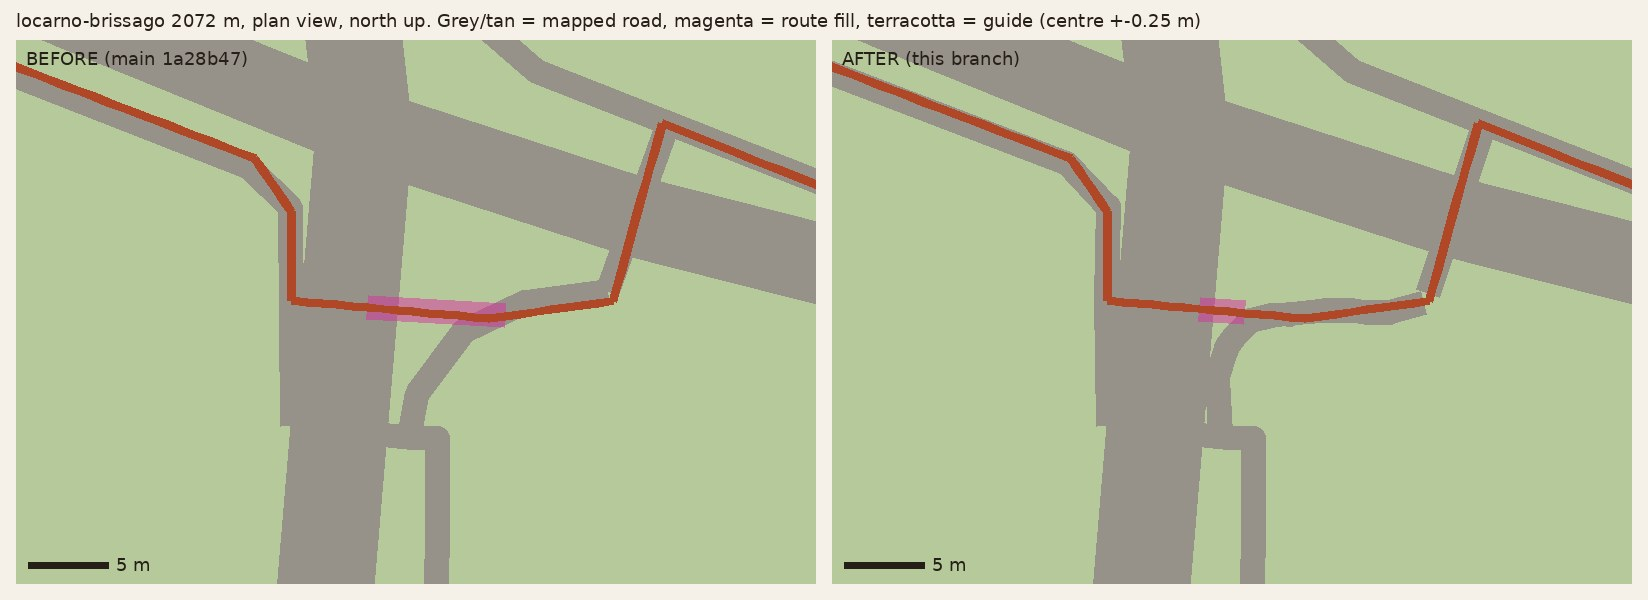
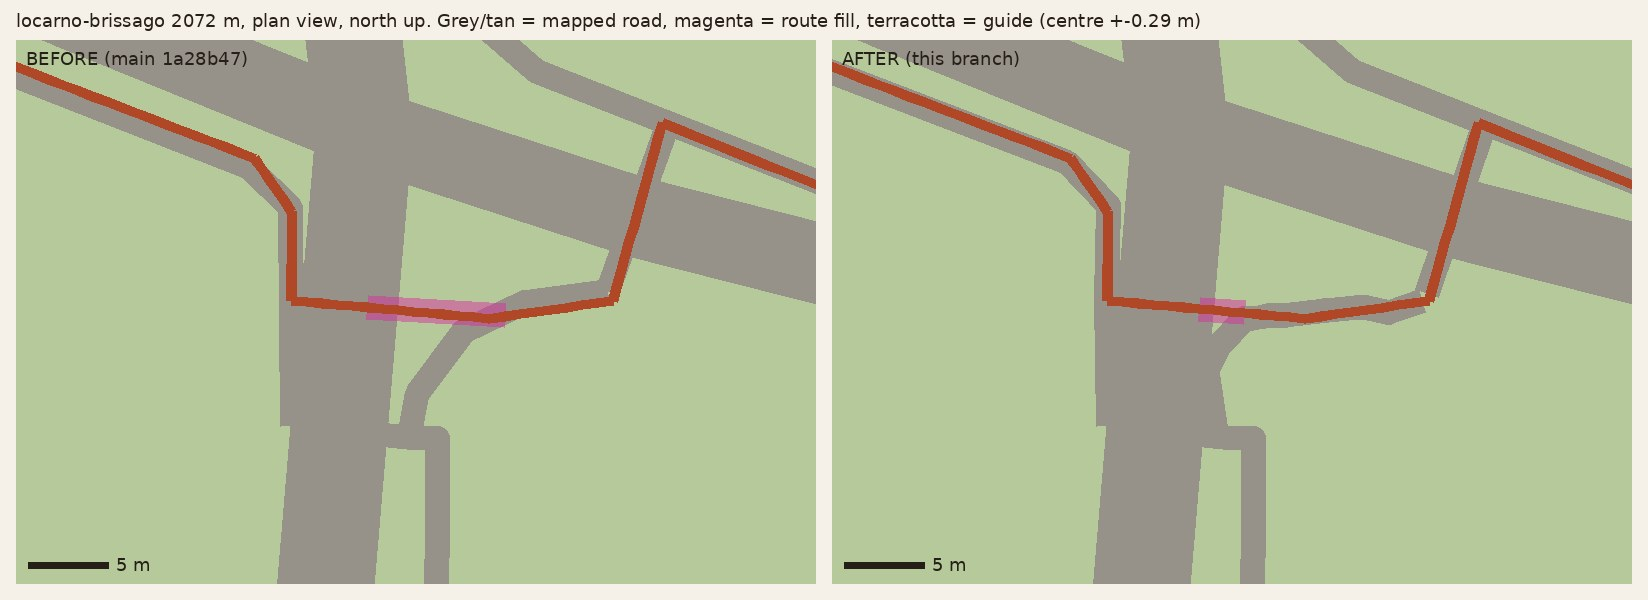
docs(evidence): route fit re-shot on the 0.29 m bake — chase (1440, 390, 1280@2), overhead, plan views, idle cat-bed fps

diff --git a/docs/design/screenshots/route-fit/README.md b/docs/design/screenshots/route-fit/README.md
@@ -1,26 +1,26 @@
 # Route fit: one drawn surface under the guide (PR #33 review N3)
 
-Card t_7e8cd233. The bake no longer lays a `routeFill` piece beside a path the route runs along. It bends that path onto the route instead (`easeRoadsOntoRoutes`, tools/worldbake/routeCoverage.mjs), and only adds a `routeFill` join where no road runs along the route within 2.5 m.
+Card t_7e8cd233. The bake no longer lays a `routeFill` piece beside a path the route runs along. It bends that path onto the route instead (`easeRoadsOntoRoutes`, tools/worldbake/routeCoverage.mjs). It adds a `routeFill` join only where no road runs along the route within 2.5 m. The guide band is the centre line ± 0.29 m: the chevron arms reach 0.24 m and the stroke adds 0.045 m (`ROUTE_GUIDE`, pinned by routeGuide.test.ts).
 
-**Before** is main 1a28b47. **After** is this branch. Both are the same build, with only `worlds/*/roads.json.gz` and `manifest.json` swapped. That makes the A/B the bake change alone. Every shot uses the world renderer at medium quality, noon and clear unless named. The rider is held with `__veloWorldLight.place(d)`.
+**Before** is main 1a28b47 and **after** is this branch. Both are one build (bundle `index-CXudCUwe.js`) with only `worlds/*/roads.json.gz` and `manifest.json` swapped, so the A/B isolates the bake change. Every shot uses the world renderer at medium, noon and clear unless named, with the rider held by `__veloWorldLight.place(d)`.
 
 ## Coverage
 
-These numbers come from `node --experimental-strip-types tools/worldbake/routeCoverage.mjs <world>` on the shipped bundles. "Paint" means the centre line ± 0.25 m.
+Measured on the shipped bundles. Coverage tool: `node --experimental-strip-types tools/worldbake/routeCoverage.mjs <world>`.
 
-| Route | Within 1 m of a mapped road | Strict centreline on a drawn road | Paint on drawn roads | Route fill |
+| Route | Strict centreline on a drawn road | Guide band on drawn roads | Route fill | Bent |
 | --- | --- | --- | --- | --- |
-| Tiber park, before | 100 % | 97.8 % without the fill | 92.17 % without the fill | 16 pieces, 242 m, beside the paths |
-| Tiber park, after | 100 % | **100 %** | **100 %** | none; 1,841 m of route on bent paths (≤ 0.97 m) |
-| Assisi valley, before | 100 % | 99.62 % without the fill | 97.58 % without the fill | 8 pieces, 58 m |
-| Assisi valley, after | 100 % | **100 %** | **100 %** | none; 720 m bent |
-| Locarno–Brissago, before | 99.98 % | 98.81 % without the fill | 97.81 % without the fill | 4 pieces, 116 m |
-| Locarno–Brissago, after | 99.98 % | 100 % | **100 %** | one 2.9 m join at 2,071 m; 310 m bent (≤ 2.07 m at the 2,072 m junction) |
-| Lugano–Melide | 100 % | 100 % | 100 % | none, unchanged |
+| Tiber park, before | 97.8 % without the fill | 90.12 % without the fill | 16 pieces (242 m) beside the paths | – |
+| Tiber park, after | **100 %** | **100 %** | none | 2.3 km of route, paths ≤ 0.99 m |
+| Assisi valley, before | 99.62 % without the fill | 96.91 % without the fill | 8 pieces (58 m) | – |
+| Assisi valley, after | **100 %** | **100 %** | none | 870 m, ≤ 0.92 m |
+| Locarno–Brissago, before | 98.81 % without the fill | 97.53 % without the fill | 4 pieces (116 m) | – |
+| Locarno–Brissago, after | **100 %** | **100 %** | one 2.9 m join at 2,071 m | 348 m: ≤ 0.85 m, plus 2.51 m at the 2,072 m junction |
+| Lugano–Melide | 100 % | 100 % | none | none |
 
-Perugia bends 20 paths, all by at most 0.97 m. Lugano bends 11, by at most 2.07 m. In both worlds, buildings, routes, terrain, water, landcover and vegetation are byte-identical to main.
+Perugia bends 19 paths and Lugano 10. In both worlds, buildings, routes, terrain, water, landcover and vegetation are byte-identical to main.
 
-## Chase shots, before | after
+## Chase shots, before | after (HUD on)
 
 | Spot | 1440×900 | 390×844 | 1280×648 @2 |
 | --- | --- | --- | --- |
@@ -28,23 +28,31 @@ Perugia bends 20 paths, all by at most 0.97 m. Lugano bends 11, by at most 2.07 
 | Tiber 2,490 m | [jpg](perugia-tiber-park-2490-1440x900-clear.jpg) | [jpg](perugia-tiber-park-2490-390x844-clear.jpg) | [jpg](perugia-tiber-park-2490-1280x648-2x-clear.jpg) |
 | Tiber 4,160 m | [jpg](perugia-tiber-park-4160-1440x900-clear.jpg) | [jpg](perugia-tiber-park-4160-390x844-clear.jpg) | [jpg](perugia-tiber-park-4160-1280x648-2x-clear.jpg) |
 | Tiber 9,480 m | [jpg](perugia-tiber-park-9480-1440x900-clear.jpg) | [jpg](perugia-tiber-park-9480-390x844-clear.jpg) | [jpg](perugia-tiber-park-9480-1280x648-2x-clear.jpg) |
-| Locarno 2,072 m (largest bend + the join) | [jpg](locarno-brissago-2072-1440x900-clear.jpg) | [jpg](locarno-brissago-2072-390x844-clear.jpg) | – |
-| Locarno 2,551 m (old 105 m fill) | [jpg](locarno-brissago-2551-1440x900-clear.jpg) | – | – |
+| Locarno 2,072 m (largest bend and the join) | [jpg](locarno-brissago-2072-1440x900-clear.jpg) | [jpg](locarno-brissago-2072-390x844-clear.jpg) | – |
+| Locarno 2,551 m (old 105 m fill) | [jpg](locarno-brissago-2551-1440x900-clear.jpg) | [jpg](locarno-brissago-2551-390x844-clear.jpg) | – |
 
-Pixels that changed by more than 24 grey levels, before vs after:
+Share of pixels that changed by more than 24 grey levels, before vs after:
 
 | Spot | 1440 | 390 | 1280 @2 |
 | --- | --- | --- | --- |
-| Tiber 1,961 m | 0.11 % | 0.30 % | 0.08 % |
-| Tiber 2,490 m | 1.73 % | 4.93 % | 1.62 % |
-| Tiber 4,160 m | 1.40 % | 2.73 % | 0.96 % |
-| Tiber 9,480 m | 2.43 % | 5.83 % | 1.88 % |
+| Tiber 1,961 m | 0.16 % | 0.29 % | 0.03 % (overcast 0.18 %) |
+| Tiber 2,490 m | 1.84 % | 4.69 % | 1.27 % |
+| Tiber 4,160 m | 1.31 % | 2.91 % | 0.84 % |
+| Tiber 9,480 m | 2.43 % | 6.28 % | 1.91 % |
 
-At the owner's spot the difference is water and cloud animation, i.e. noise. The camera there sees 1,961–2,100 m, which never had a fill, and nothing in that view changes. At 2,490, 4,160 and 9,480 m the before has a widened path with a square step in its edge where the fill piece starts. The after shows one path of constant width with the guide on it.
+- **At the owner's spot** the only differences are water and cloud animation. The camera there sees 1,961–2,100 m, a stretch that never had a fill.
+- **At 2,490, 4,160 and 9,480 m** the before shows a widened path, with a square step in its edge where the fill piece starts. The after shows one path of constant width with the guide on it.
+
+## Overhead (the app's overhead camera, HUD hidden), before | after
+
+- [Tiber 2,490](perugia-tiber-park-2490-1440x900-clear-overhead.jpg)
+- [Tiber 4,140](perugia-tiber-park-4140-1440x900-clear-overhead.jpg)
+- [Tiber 9,470](perugia-tiber-park-9470-1440x900-clear-overhead.jpg)
+- [Locarno 2,066](locarno-brissago-2066-1440x900-clear-overhead.jpg)
 
 ## Plan views, before | after
 
-These are drawn from the bundles: a 50 × 34 m window, north up. Grey/tan strips are mapped roads, drawn the way the renderer draws them (real width, flat ends). Magenta is route fill. Terracotta is the painted guide.
+Each plan view is drawn from the bundles: a 50 × 34 m window, north up. Grey and tan are mapped roads, drawn as the renderer draws them (real width, flat ends). Magenta is route fill and terracotta is the guide band.
 
 - [Tiber 1,690](plan-perugia-tiber-park-1690.jpg)
 - [Tiber 2,470](plan-perugia-tiber-park-2470.jpg)
@@ -55,15 +63,15 @@ These are drawn from the bundles: a 50 × 34 m window, north up. Grey/tan strips
 - [Locarno 2,072](plan-locarno-brissago-2072.jpg)
 - [Locarno 2,600](plan-locarno-brissago-2600.jpg)
 
-At Locarno 2,072 m a 13 m connector path bends by up to 2.07 m. Its corner now follows the route into the junction (77° of turning over 13 vertices, the largest 32°; before it was 72° over 3 vertices). The 2.9 m join covers the last metre to the wide road.
+**Locarno 2,072 m.** A 13 m connector path is bent by up to 2.51 m (OSM way geometry from the 1 Oct snapshot; the route is today's OSRM line). Its corner now follows the route into the junction with the wide road, and the 2.9 m join covers the last metre. It reads as one path, but it hugs the wide road for a few metres. It is the only bend over 1 m in either world.
 
-## Frame rate (cat-bed, Arrow Lake iGPU, gl-egl, 1920×1080, medium, Tiber park)
+## Frame rate (cat-bed, Arrow Lake iGPU, gl-egl, 1920×1080, medium, Tiber park, HUD on)
 
-Before and after runs were interleaved. cat-bed was carrying qemu co-tenants (load 6–10), so the uncapped runs swing with that load.
+Before and after runs were interleaved, 3 pairs × 2 windows each, on an idle host (load 0.8–1.6).
 
 | | before | after |
 | --- | --- | --- |
-| HUD on, vsync (3 pairs × 2 windows) | 59.2–60 fps (mean 59.8) | 60–60 fps (mean 60.0) |
-| HUD on, uncapped (5 pairs × 2 windows) | 40.4–85.3 fps | 32.2–87.5 fps (the 32.2 is one window with a 1.5 s stall) |
+| vsync | 60 fps in all 6 windows | 60 fps in all 6 windows |
+| uncapped | 97.1–110.6 fps (mean 106.5) | 88.4–116.3 fps (mean 102.8) |
 
-Uncapped pairs move together: round 4 put both at ~40 and round 5 both at ~70–76. The road layer gains about 1.5 kB and loses 24 pieces, so no cost is expected, and none shows.
+An earlier set on the 0.25 m bake ran under qemu co-tenants (load 6–10). It gave 59.2–60 vs 60 with vsync, and the uncapped pairs swung together between 40 and 87 fps. The road layer gains about 1.5 kB and loses 24 pieces.

diff --git a/docs/worlds/WORLD-FORMAT.md b/docs/worlds/WORLD-FORMAT.md
@@ -370,7 +370,7 @@ destination until they get worlds of their own. Baked 4 Nov 2026 on cat-bed:
 | Bake time | 516 s from an empty cache (Overpass ≈ 7 min of it) |
 | Determinism | two bakes from cache and one from an empty cache: identical bytes for all 8 files (re-bake after the route fixes: two bakes from cache, identical) |
 | Size | 9.46 MB as shipped (gzip), 7.12 MB brotli, 19.3 MB raw |
-| Routes | max gap 0 m; grade Δ 0.61 pp (Lugano–Melide), 0.61 pp (Locarno–Brissago); painted guide 100 % on drawn roads (Locarno–Brissago: 99.98 % within 1 m of mapped roads; the route fit bends 11 paths by up to 2.35 m over 310 m of route and adds one 2.9 m join, where a 116 m route fill used to lie beside the paths) |
+| Routes | max gap 0 m; grade Δ 0.61 pp (Lugano–Melide), 0.61 pp (Locarno–Brissago); painted guide 100 % on drawn roads (Locarno–Brissago: 99.98 % within 1 m of mapped roads; the route fit bends 10 paths over 348 m of route (≤ 0.85 m, and 2.51 m at the 2,072 m junction) and adds one 2.9 m join, where a 116 m route fill used to lie beside the paths) |
 | Heightfield vs Open-Meteo, 50 seeded points | **fails as written**: RMS 18.17 m at the points; 9.12 m registered at the GLO-90 nodes |
 
 Lugano–Melide's grade Δ was 1.127 pp at the first bake: its geometry rode
